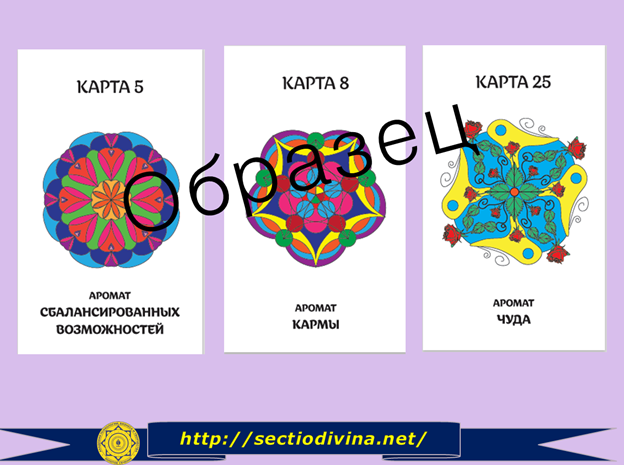
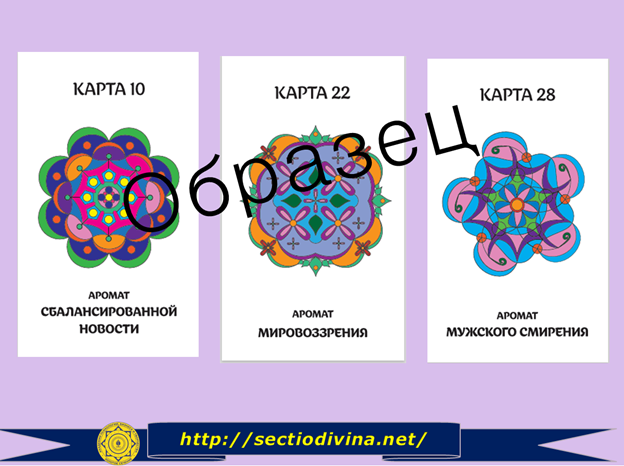
обновил карты

diff --git a/index.html b/index.html
@@ -53,10 +53,11 @@
       <div class="position-card">
         <div class="info infos1" id="info1">
           <h1 class="main-text1">Карта № 1</h1>
-          <h2 class="main-text2">Аромат сбалансированных возможностей.</h2>
+          <h2 class="main-text2">Аромат сбалансированной новости.</h2>
           <p class="cart1">
-            * Появление этой карты в раскладе говорит о том, что сейчас вам необходимо понять, что для вас является любимым занятием. Уделяете ли вы достаточно внимания тому, что вам на самом деле интересно? Или повседневная рутина и обязательства не дают вам возможности заниматься любимым делом?  
-*Важно понимать, что существует прямая взаимосвязь между вашим состоянием здоровья и тем, насколько вы позволяете себе быть самим собой, занимаясь любимым делом.  Позвольте себе ежедневно уделять время для своего хобби, сделайте это хорошей привычкой. Вы увидите, насколько это улучшит вашу жизнь и состояние здоровья.
+            * Появление этой карты в раскладе говорит о том, что сейчас вы своими негативными мыслями можете притягивать в жизнь неприятные события. Вы чего-то боитесь, сомневаетесь, настроены на неудачу? 
+<br><br>Мы притягиваем в собственную жизнь именно то, чего боимся. Настроенность на неудачу порождает неудачу. Не думайте о плохом! Не допускайте отрицательное развитие событий. Постоянно думая о неприятностях, вы не только увеличиваете шансы этих событий, но при этом лишаете себя радости и душевного покоя. 
+Чувствуя разочарование, не пасуйте перед ним, а продолжайте идти к намеченной цели, учитесь, меняйтесь, проявляйте настойчивость. Не списывайте свои неудачи на «судьбу» или других людей— иначе столкнетесь в жизни с еще большими трудностями. Помните, что вся ответственность за собственную жизнь лежит только на вас.
             <div class="number-cart">
               Пишите номер карты нам в ответном письме и получите доступ к медитации на платформе геткурс.
             </div> 
@@ -70,10 +71,14 @@
   
         <div class="info infos1" id="info2">
           <h4 class="main-text3">Карта № 2</h4>
-          <h5 class="main-text4">Аромат кармы.</h5>
+          <h5 class="main-text4">Аромат мировоззрения.</h5>
           <p class="cart2">
-            *Появление этой карты в раскладе говорит о том, что вам сейчас нужно проработать законы кармы, понимая, что они проявляются на уровне тела, ума и энергии. Все, что вы делаете на этих трех уровнях, влияет на вас и оставляет определенный отпечаток.
-*Понятие, что с «плохой кармой» сделать ничего невозможно, ошибочно. Благими намерениями, мыслями, поступками, мы можем изменить рисунок своей судьбы в лучшую сторону.
+            * Появление этой карты в раскладе говорит о том, что в какой-то из областей вашей жизни сейчас работает закон бумеранга. Если учесть, что реакция на бумеранг растянута во времени, есть смысл проанализировать ваши поступки за какой-то период. 
+*Если вы понимаете, что сейчас у вас появились какие-то неприятности – в отношениях, финансах, здоровье, карьере, подумайте, когда и где вы совершали поступки, которые привели к сегодняшней ситуации.
+*Какие ваши слова могли кого-то обидеть, какие негативные мысли возникали у вас по отношению к кому-либо? Как часто вы позволяли себе осуждать или обманывать кого-то? 
+*Любая система стремиться к равновесию. То есть сила действия равна силе противодействия. И воздаяние будет соответствовать содеянному. Даже, если вы не смогли увидеть у себя ничего предосудительного, попросите прощения у ваших близких, поблагодарите Вселенную за все, что она вам дает и за то, чего не дает. В этом мире все справедливо.
+*Помните о законе бумеранга. Хотите, чтобы вам помогали, помогайте сами, хотите заботы – начните о ком-то заботиться, хотите быть любимым – любите. Помните, что вы хозяин не только своих поступков, но и мыслей. Контролируйте их, творите добро, и оно обязательно к вам вернется! 
+
             <div class="number-cart">
               Пишите номер карты нам в ответном письме и получите доступ к медитации на платформе геткурс.
             </div> 
@@ -88,17 +93,11 @@
             Карта № 3 
           </h6>
           <h7 class="main-text6">
-            Аромат Чуда.
+            Аромат мужского смирения.
           </h7>
           <p class="cart3">
-            *Появление этой карты в раскладе говорит о том, что вы сейчас находитесь в состоянии, которое заставляет вас необоснованно жаловаться на происходящее. Вы не доверяете миру и его возможностям? Проанализируйте, как часто в последнее время, вы были недовольны своей жизнью? Кого вы вините в своих неудачах? Не стало ли такое поведение для вас определенной привычкой?
-* Как не растеряться в сложные жизненные моменты? Конечно, легче всего роптать, но попробуйте сконцентрироваться на решении проблемы! Прежде всего:
-- Перестаньте искать виноватых. Возьмите целиком и полностью ответственность за возникшую ситуацию на себя.
-- Думайте позитивно! Негативные мысли и эмоции разрушают вас и наносят только вред.
-- Живите по принципу - появилась трудность (задача), значит есть и ее решение.
-- Избегайте людей, которые постоянно недовольны. 
-- Верьте в себя, в свои собственные силы и возможности. И тогда волшебство обязательно случиться.
-*Помните о том, что все наши жалобы на то, что жизнь сложна и невыносима, на то, что, мы чего-то лишены, появляются от недостатка благодарности за то, что мы имеем.
+            * Появление этой карты в раскладе говорит о том, что пришло время оценить, а может быть пересмотреть отношения с вашим партнером, близкими вам людьми. Это нужно сделать с точки зрения вашего внутреннего баланса Инь-Ян. Баланса между мужским и женским началом. 
+*Нужно понимать, что мужское начало — это дух, а женское - материя. Вместе они создают реальность, вселенную, идеальный баланс. Ничего нельзя зачать без мужской энергии, и ничего нельзя родить без женской энергии.
             <div class="number-cart">
               Пишите номер карты нам в ответном письме и получите доступ к медитации на платформе геткурс.
             </div> 
